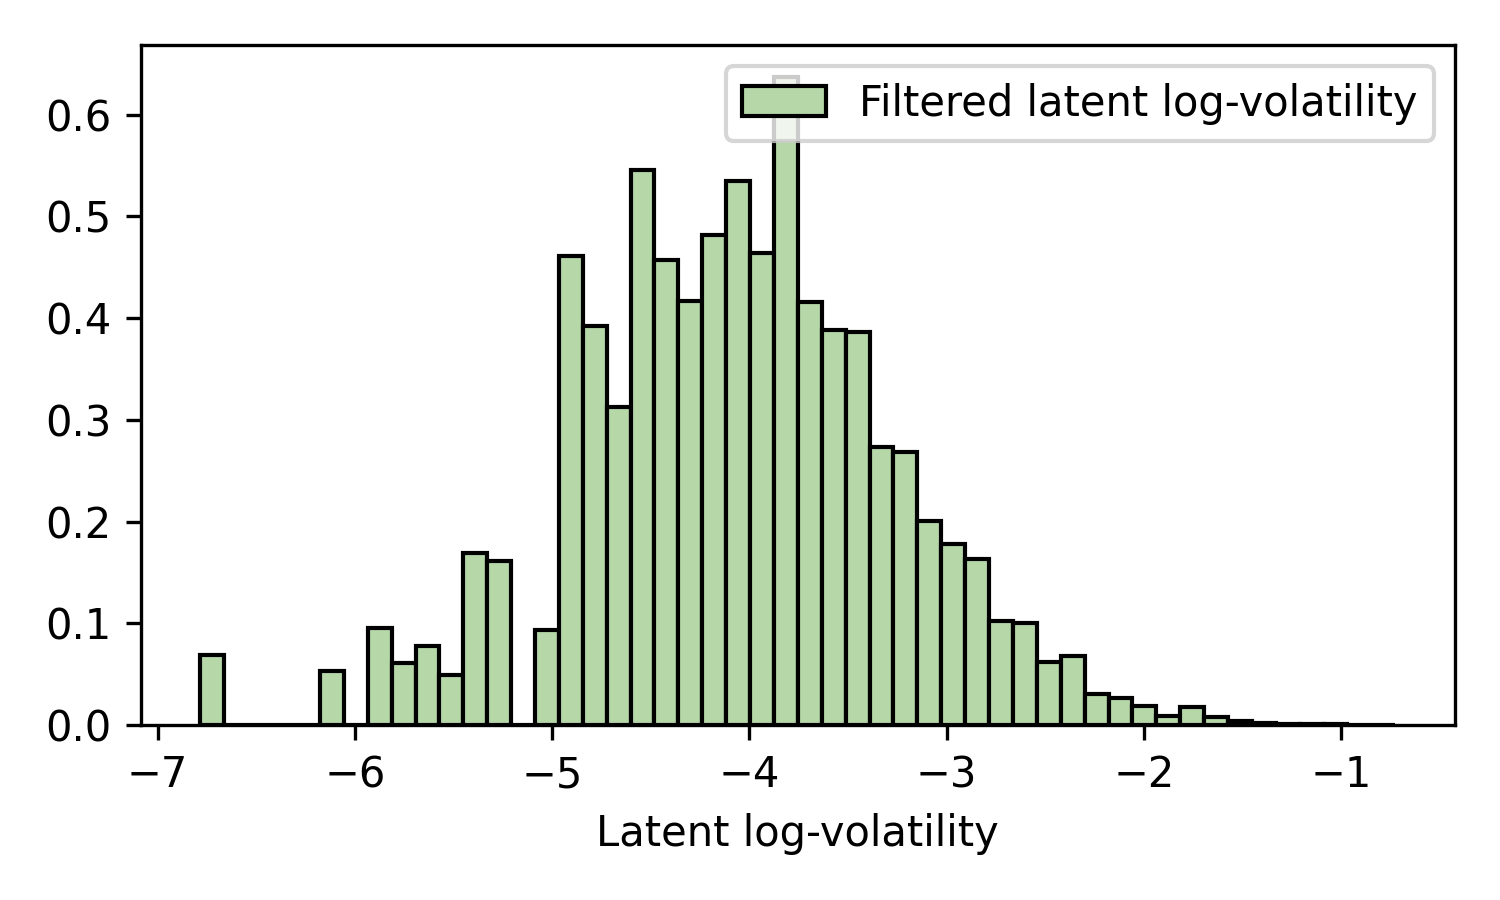
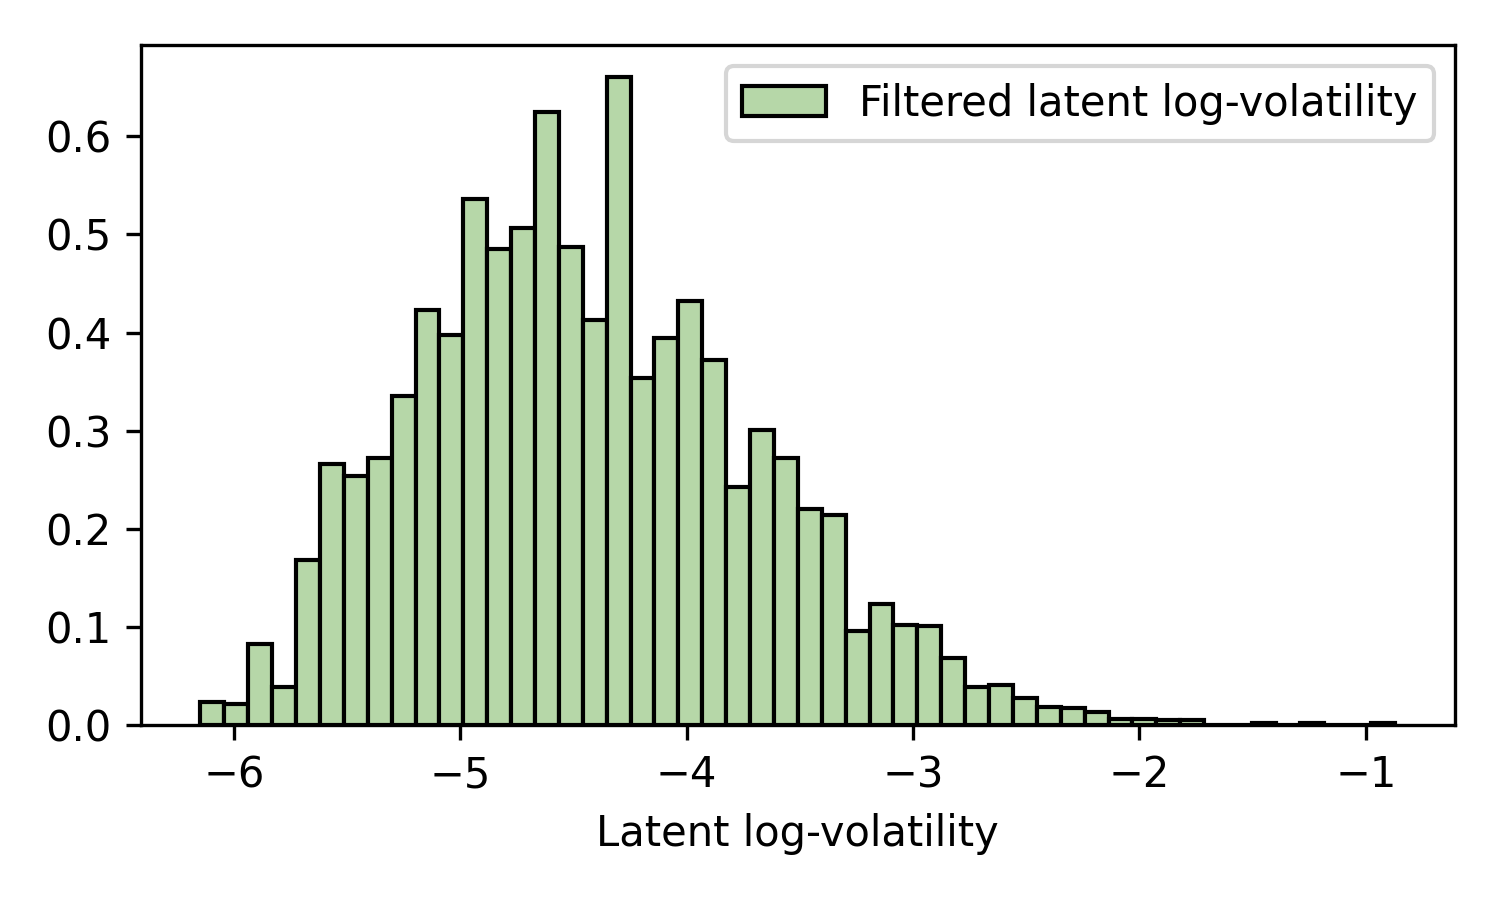
Add online filtering example

diff --git a/docs/examples/online_stoch_vol.md b/docs/examples/online_stoch_vol.md
@@ -1,6 +1,6 @@
 # Online Filtering and Prediction
 
-A few feature of inference in state-space models is that approximations can be update
+A key feature of inference in state-space models is that estimates can be updated
 online as new data arrives. In this example, we'll use `cuthbert` to infer the
 volatility of the Marks & Spencer stock price data and then use it to predict
 a future volatility and stock price before updating the approximation with new data.
@@ -8,9 +8,11 @@ a future volatility and stock price before updating the approximation with new d
 The model we'll use is a simple stochastic volatility model adapted from section 2.4.3
 in [Chopin and Papaspiliopoulos (2023)](https://doi.org/10.1007/978-3-030-47845-2).
 
-Of independent interest, we'll define the state-space model dynamics in continuous-time
+Of additional interest, we'll define the state-space model dynamics in continuous-time
 so that we easily handle the irregular observation times (which occur here as stock
-prices aren't available on weekends).
+prices aren't available on weekends). We'll also define the observation model in a
+convenient way to handle missing data and predict future values using the same
+filtering framework.
 
 ## Setup and imports
 
@@ -18,7 +20,7 @@ prices aren't available on weekends).
 from typing import NamedTuple
 import matplotlib.pyplot as plt
 import pandas as pd
-from jax import Array, random, numpy as jnp, tree
+from jax import Array, random, numpy as jnp, tree, nn
 from jax.scipy.stats import norm
 import numpy as np
 import yfinance as yf
@@ -29,13 +31,13 @@ from cuthbertlib.resampling import systematic
 ```
 
 We'll use a simple bootstrap particle filter for inference since our model is
-non-linear and non-Gaussian and univariate (so we don't need to worry about the
+non-linear, non-Gaussian and low-dimensional (so we don't need to worry about the
 particle filter curse of dimensionality).
 
 ## Load data
 
-We'll use the `yfinance` library to easily download the Marks & Spencer stock price
-data for the past 3 years.
+We can use the [`yfinance`](https://github.com/ranaroussi/yfinance) library to easily
+download the Marks & Spencer stock price data for the past 3 years.
 
 ??? quote "Code to download Marks & Spencer stock price data"
     ```{.python #online-stoch-vol-load-data-func}
@@ -266,7 +268,7 @@ Now we'll plot the distributions over our predicted values.
     fig.savefig("docs/assets/online_stoch_vol_predict.png", dpi=300)
     ```
 
-![Predicted distributions](assets/online_stoch_vol_predict.png)
+![Predicted distributions](../assets/online_stoch_vol_predict.png)
 
 We've also highlighted for reference the true log-return (which is unseen) in red, which
 the particle filter has not seen (yet).
@@ -304,7 +306,7 @@ This time the filter sees the actual log-return rather than `jnp.nan`.
     fig.savefig("docs/assets/online_stoch_vol_filter.png", dpi=300)
     ```
 
-![Filtered distribution](assets/online_stoch_vol_filter.png)
+![Filtered distribution](../assets/online_stoch_vol_filter.png)
 
 
 ## Key Takeaways
@@ -326,8 +328,10 @@ This time the filter sees the actual log-return rather than `jnp.nan`.
 <!--- entangled-tangle-block
 ```{.python file=examples_scripts/online_stoch_vol.py}
 <<online-stoch-vol-setup>>
+<<online-stoch-vol-load-data-func>>
 <<online-stoch-vol-load-data>>
 <<online-stoch-vol-model-inputs>>
+<<online-stoch-vol-model-params>>
 <<online-stoch-vol-model-func>>
 <<online-stoch-vol-particle-filter-setup>>
 <<online-stoch-vol-particle-filter-run-previous>>

diff --git a/docs/examples/index.md b/docs/examples/index.md
@@ -6,3 +6,4 @@ highlighting the flexibility of the library and the utility of the underlying me
 - [Quick start with ranking international football teams](../quickstart.md)
 - [Exact Kalman tracking of a car in 2D space](kalman_tracking.md)
 - [Parallel-in-time Kalman filter](temporal_parallelization_kalman.md)
+- [Online filtering and prediction for a stochastic volatility model](online_stoch_vol.md)
